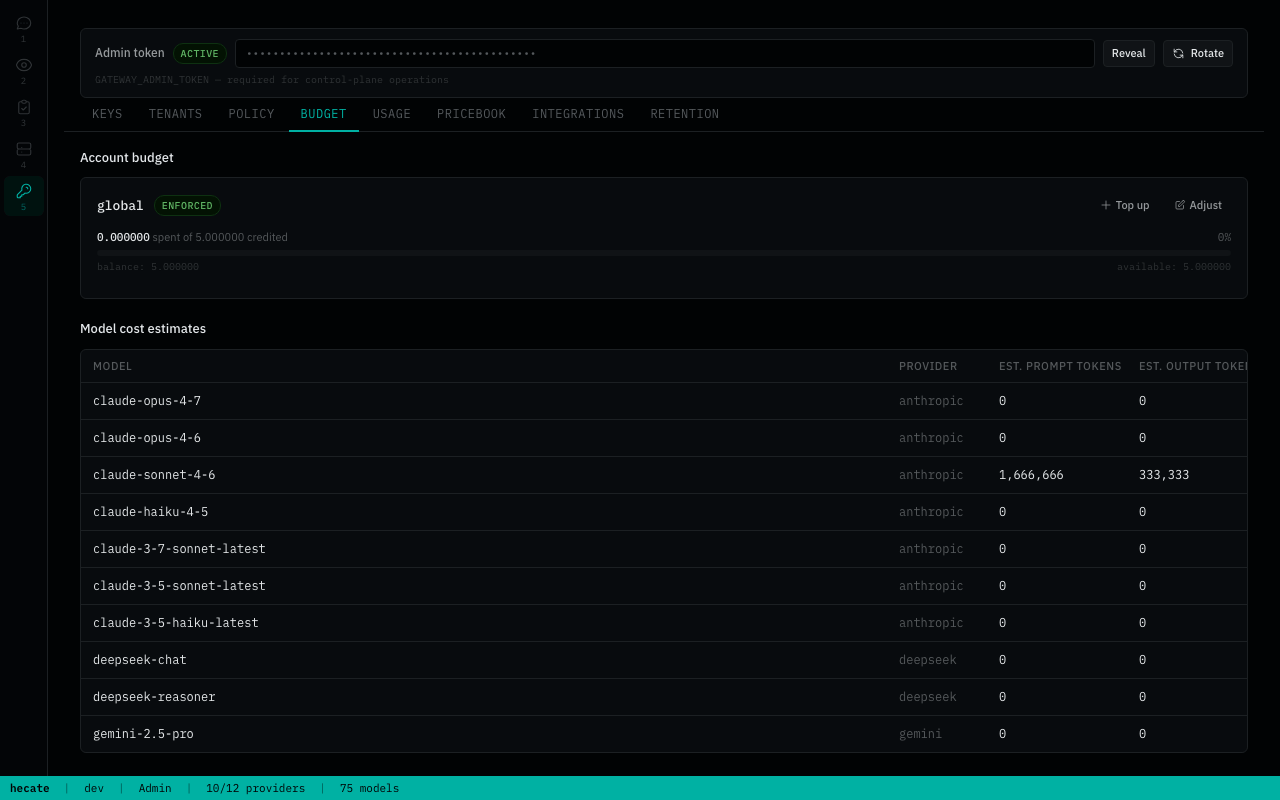
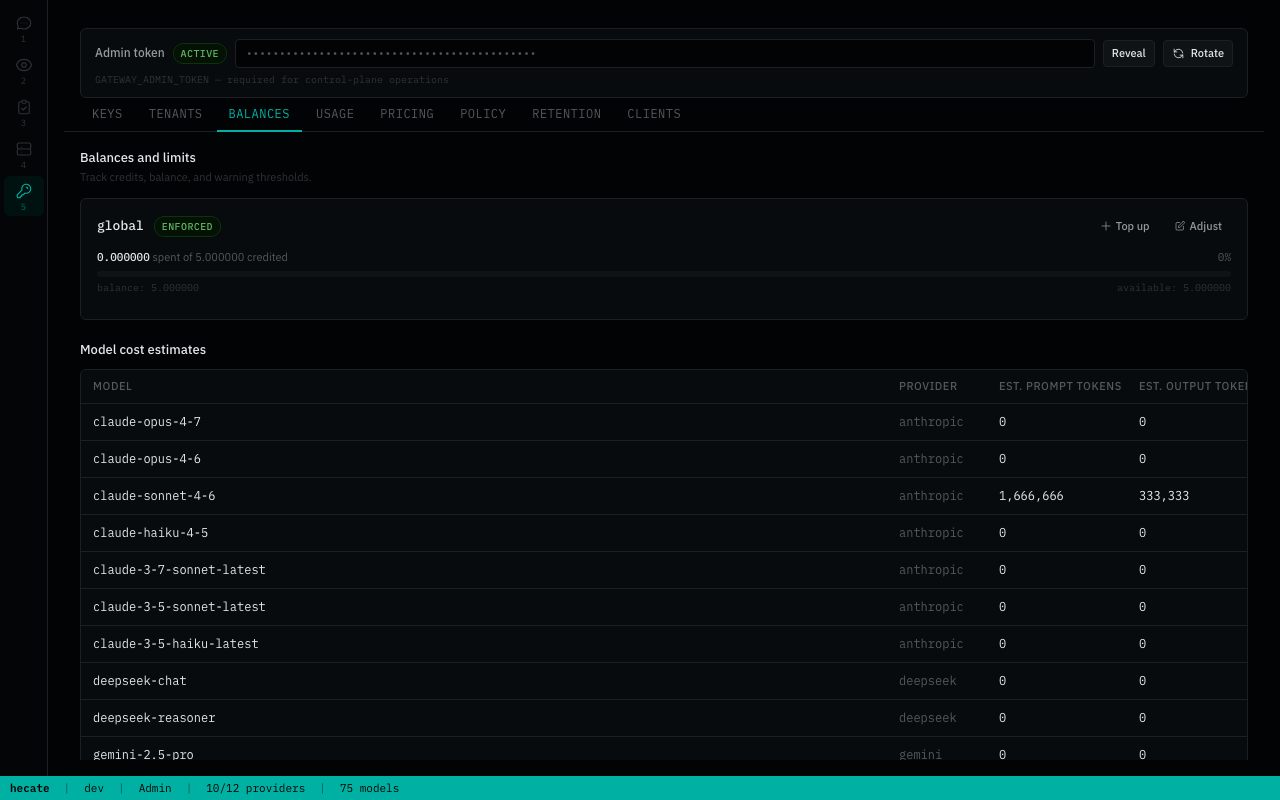
docs(ui): tighten alpha onboarding — Cursor support, Add Providers, screenshot refresh
A grab bag of onboarding-doc improvements aimed at making the
README → docs → UI flow legible to a first-time operator before the
alpha tag.

README.md
  - Connect a Client: drop the per-client env-var table; the operator
    UI's Admin → Integrations tab already carries that copy-paste, and
    a screenshot of it is more useful than a restated table. Embed
    docs/screenshots/admin-integrations.png inline. Replace the long
    "custom clients vs custom providers" paragraph with a one-liner
    pointing at docs/client-integration.md.
  - Add Providers: new section between Connect a Client and
    Architecture covering the three setup paths (Operator UI, env
    vars, control-plane API), the cloud + local preset lists with
    default ports, and an .env snippet showing the host.docker.internal
    pattern for hitting host-side Ollama from a docker compose stack.
    The Quick Start said "Provider API keys can be added in the UI"
    but never explained how — this closes that gap.
  - Operator UI screenshots: reorder the collapsible to lead with
    Observability and Tasks (the workspaces operators spend time in)
    rather than admin sub-tabs.

docs/client-integration.md
  - Title: "Codex And Claude Code" → "Codex, Claude Code, And Cursor".
  - New "Cursor setup" section between Claude Code setup and Smoke
    tests. Cursor reads model config from its in-app Settings UI, not
    env vars, so the section walks Settings → Models → API Keys →
[…]

diff --git a/ui/src/features/admin/AdminView.tsx b/ui/src/features/admin/AdminView.tsx
@@ -1347,6 +1347,16 @@ export OPENAI_API_KEY="<paste an API key from the Keys tab>"`;
   const anthropicSnippet = `export ANTHROPIC_BASE_URL="${origin}"
 export ANTHROPIC_API_KEY="<paste an API key from the Keys tab>"`;
 
+  // Cursor reads its model config from the in-app Settings UI, not from
+  // environment variables. The "snippet" here is a labeled value pair the
+  // operator pastes into Cursor → Settings → Models → API Keys.
+  const cursorSnippet = `Cursor → Settings → Cursor Settings → Models → API Keys
+
+Override OpenAI Base URL:  ${openaiBase}
+OpenAI API Key:            <paste an API key from the Keys tab>
+
+Click "Verify" — a green check means Cursor reached /v1/models through this gateway.`;
+
   const curlSnippet = `curl -sS "${openaiBase}/chat/completions" \\
   -H "Authorization: Bearer <api-key>" \\
   -H "Content-Type: application/json" \\
@@ -1360,9 +1370,9 @@ export ANTHROPIC_API_KEY="<paste an API key from the Keys tab>"`;
         </div>
         <div style={{ fontSize: 12, color: "var(--t2)", lineHeight: 1.5 }}>
           Copy the env vars below into your shell (or your client's settings) to route Codex,
-          Claude Code, or any OpenAI- / Anthropic-compatible client through this gateway.
-          The base URL is auto-filled from your browser location, so the snippets work for
-          local dev, internal hostnames, and public deploys alike.
+          Claude Code, Cursor, or any OpenAI- / Anthropic-compatible client through this
+          gateway. The base URL is auto-filled from your browser location, so the snippets
+          work for local dev, internal hostnames, and public deploys alike.
         </div>
       </div>
 
@@ -1379,6 +1389,13 @@ export ANTHROPIC_API_KEY="<paste an API key from the Keys tab>"`;
             Claude Code / Anthropic Messages
           </div>
           <CodeBlock code={anthropicSnippet} lang="bash" />
+        </div>
+
+        <div>
+          <div className="kicker-lg" style={{ color: "var(--t2)", marginBottom: 6 }}>
+            Cursor (Settings UI, not env vars)
+          </div>
+          <CodeBlock code={cursorSnippet} lang="text" />
         </div>
 
         <div>

diff --git a/scripts/capture-screenshots.ts b/scripts/capture-screenshots.ts
@@ -261,12 +261,17 @@ async function main() {
 
   console.log("→ admin / pricebook");
   await openWorkspace(page, "admin");
-  await page.getByRole("button", { name: /pricebook/i }).click();
+  // Tab buttons render the display label from TAB_LABELS in
+  // ui/src/features/admin/AdminView.tsx — pricebook → "Pricing",
+  // budget → "Balances", integrations → "Clients". The internal tab
+  // ids (pricebook / budget / integrations) are storage keys, not
+  // rendered text; clicking has to anchor on the visible label.
+  await page.getByRole("button", { name: /pricing/i }).click();
   await page.waitForTimeout(800);
   await snap(page, "admin-pricebook");
 
   console.log("→ admin / budget");
-  await page.getByRole("button", { name: /budget/i }).click();
+  await page.getByRole("button", { name: /balances/i }).click();
   await page.waitForTimeout(500);
   await snap(page, "admin-budget");
 
@@ -291,7 +296,7 @@ async function main() {
   await snap(page, "admin-keys");
 
   console.log("→ admin / integrations");
-  await page.getByRole("button", { name: /integrations/i }).click();
+  await page.getByRole("button", { name: /clients/i }).click();
   await page.waitForTimeout(400);
   await snap(page, "admin-integrations");
 

diff --git a/docs/client-integration.md b/docs/client-integration.md
@@ -1,6 +1,6 @@
-# Client Integration (Codex And Claude Code)
+# Client Integration (Codex, Claude Code, And Cursor)
 
-This guide explains how to point external coding clients at Hecate as the model gateway. Hecate accepts both OpenAI-compatible and Anthropic-shaped traffic on the same port, so one gateway URL works for both Codex-style and Claude-Code-style clients.
+This guide explains how to point external coding clients at Hecate as the model gateway. Hecate accepts both OpenAI-compatible and Anthropic-shaped traffic on the same port, so one gateway URL works for Codex-style, Claude-Code-style, and Cursor clients.
 
 For the request lifecycle Hecate runs each call through (auth → policy → cache → router → provider), see [`architecture.md`](architecture.md#gateway-request-flow). For task-runtime (`/v1/tasks/...`) endpoints, see [`runtime-api.md`](runtime-api.md).
 
@@ -14,6 +14,7 @@ This page is about **custom clients**, not custom providers. A custom client is 
 - [Two operating modes](#two-operating-modes)
 - [Codex setup](#codex-setup)
 - [Claude Code setup](#claude-code-setup)
+- [Cursor setup](#cursor-setup)
 - [Smoke tests](#smoke-tests)
 - [Multi-modal content (vision)](#multi-modal-content-vision)
 - [OpenAI request fields and cross-provider behavior](#openai-request-fields-and-cross-provider-behavior)
@@ -136,6 +137,21 @@ export ANTHROPIC_API_KEY="hecate-client-token"
 ```
 
 Hecate accepts this key via `x-api-key`. If your client supports explicit auth headers, `Authorization: Bearer ...` also works.
+
+## Cursor setup
+
+Cursor reads its model configuration from the in-app Settings UI, not from environment variables. To route Cursor's chat / Composer / Tab models through Hecate:
+
+1. Open **Cursor → Settings → Cursor Settings → Models → API Keys**.
+2. Toggle **Override OpenAI Base URL** on and set:
+   - **Base URL**: `http://127.0.0.1:8080/v1` (or your Hecate gateway URL)
+   - **OpenAI API Key**: a tenant key from the Hecate UI's Keys tab (or the admin bearer for first-run testing)
+3. Click **Verify** — Cursor will probe `/v1/models`. A green check means Hecate accepted the credential and returned the model catalog.
+4. Pick a Hecate-routable model (e.g. `gpt-4o-mini`, `claude-sonnet-4`, or any model your tenant key is scoped to) in the model picker. Cursor's Composer and Tab features will now route through Hecate.
+
+Cursor does not currently expose an Anthropic-base-URL override. To use Anthropic models via Hecate from Cursor, rely on Hecate's cross-provider translation: the OpenAI-compatible endpoint accepts `model: claude-...` and Hecate translates the request into an Anthropic Messages call upstream. From Cursor's point of view it's still the OpenAI base URL.
+
+> Note: this is unrelated to the `.cursor/rules/` feature in this repo, which controls Cursor's coding-rule injection — not its model routing. The two are independent.
 
 ## Smoke tests
 

diff --git a/README.md b/README.md
@@ -71,15 +71,11 @@ Provider API keys can be added in the UI after first boot. If you prefer environ
 
 Hecate is designed to work with existing tools, not a custom SDK.
 
-| Client | Configure |
-|---|---|
-| Codex, OpenAI SDKs, OpenAI-compatible tools | `OPENAI_BASE_URL=http://127.0.0.1:8080/v1` and `OPENAI_API_KEY=<hecate key>` |
-| Claude Code, Anthropic SDKs | `ANTHROPIC_BASE_URL=http://127.0.0.1:8080` and `ANTHROPIC_API_KEY=<hecate key>` |
-| curl / internal tools | Use the OpenAI-compatible `/v1/chat/completions` or Anthropic-compatible `/v1/messages` APIs |
+The operator UI includes **Admin → Integrations** with copy-paste snippets for common clients.
 
-The operator UI also includes **Admin → Integrations** with copy-paste snippets for common clients.
+![Integrations tab — copy-paste client configuration snippets](docs/screenshots/admin-integrations.png)
 
-Custom clients are supported today: Codex, Claude Code, OpenAI/Anthropic SDKs, curl scripts, and internal tools can point at Hecate. Custom providers are different: provider management currently centers on the shipped preset catalog, not arbitrary provider creation. See [docs/client-integration.md](docs/client-integration.md) and [docs/providers.md](docs/providers.md).
+See [docs/client-integration.md](docs/client-integration.md) for other ways to setup your client.
 
 ## Add Providers
 
@@ -144,8 +140,11 @@ The embedded UI is a runtime console for operators.
 - **Admin** — tenants, API keys, balances, pricebook, policy rules, retention, and client snippets.
 
 <details>
-<summary>UI screenshots</summary>
+<summary>Various UI screenshots</summary>
 
+![Observability view — request ledger and route-report drilldown](docs/screenshots/observe.png)
+
+![Tasks workspace — task list with run state and approval queue](docs/screenshots/tasks.png)
 
 ![Pricebook tab — model catalog with priced / unpriced / deprecated filters](docs/screenshots/admin-pricebook.png)
 
@@ -154,12 +153,6 @@ The embedded UI is a runtime console for operators.
 ![Tenants tab — tenant lifecycle and access controls](docs/screenshots/admin-tenants.png)
 
 ![API keys tab — scoped keys for clients and agents](docs/screenshots/admin-keys.png)
-
-![Integrations tab — copy-paste client configuration snippets](docs/screenshots/admin-integrations.png)
-
-![Observability view — request ledger and route-report drilldown](docs/screenshots/observe.png)
-
-![Tasks workspace — task list with run state and approval queue](docs/screenshots/tasks.png)
 
 </details>
 
